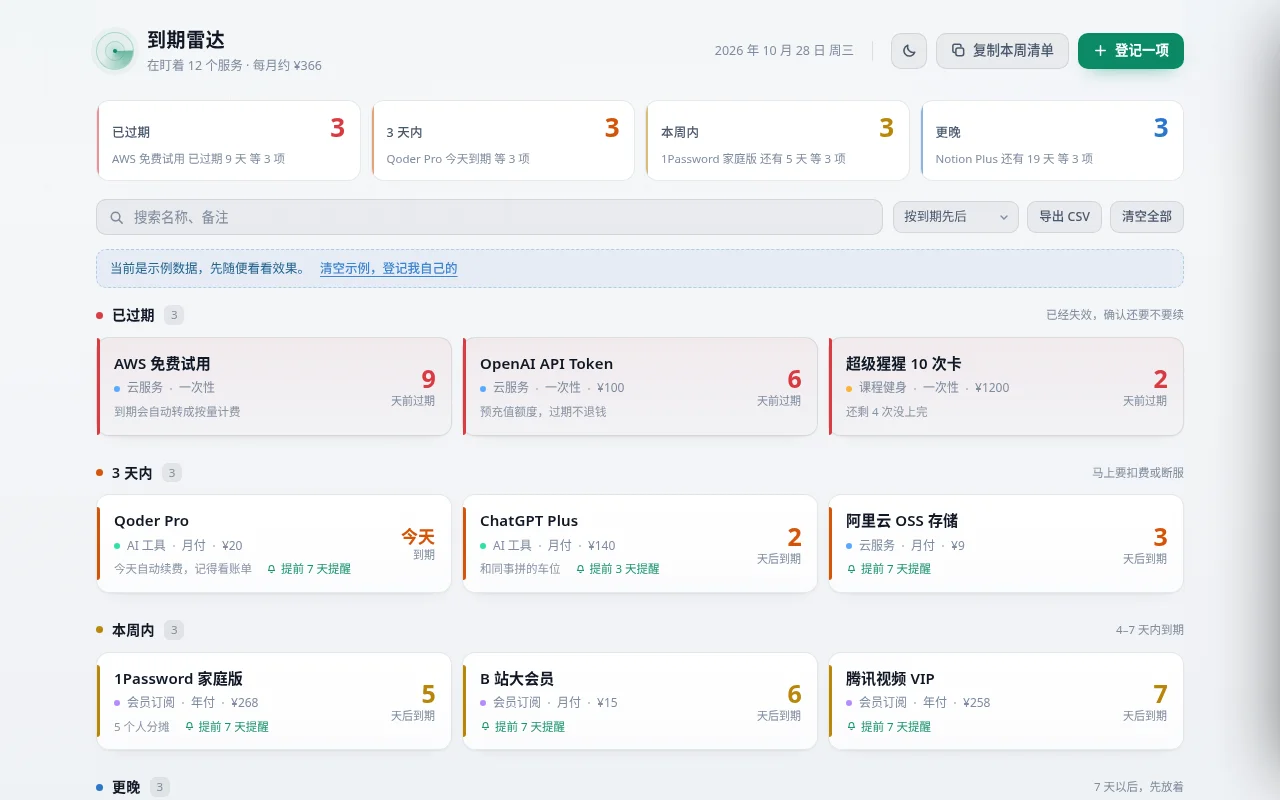
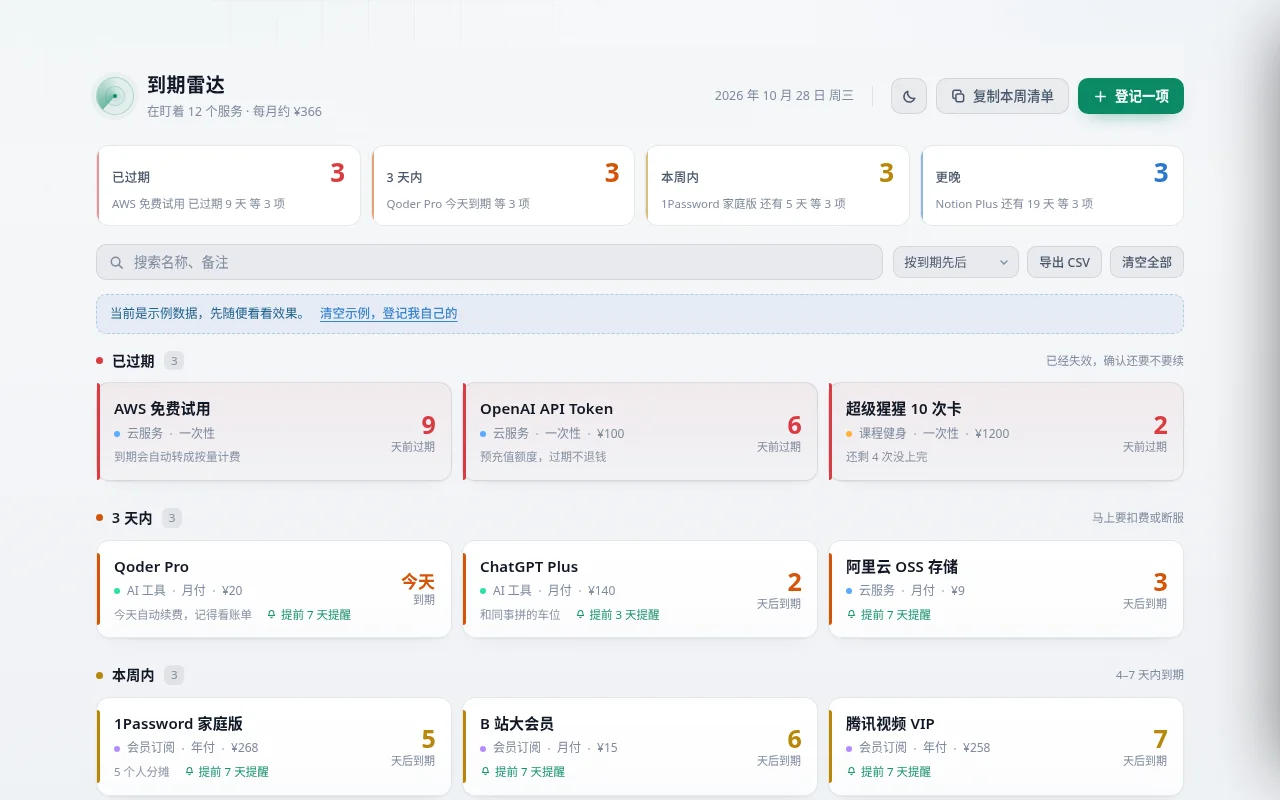
Add expiry radar template

diff --git a/wb1024-c597-abc5c6de/showcase/preview.html b/wb1024-c597-abc5c6de/showcase/preview.html
@@ -735,9 +735,10 @@ input[type="date"]::-webkit-calendar-picker-indicator { filter: var(--date-icon-
 }
 </style>
 <script>
+var previewStore={data:{},getItem(k){return this.data[k]||null},setItem(k,v){this.data[k]=v}};
   (function () {
     try {
-      var saved = localStorage.getItem('expired-radar.theme');
+      var saved = previewStore.getItem('expired-radar.theme');
       var theme = saved || (window.matchMedia('(prefers-color-scheme: light)').matches ? 'light' : 'dark');
       document.documentElement.setAttribute('data-theme', theme);
       var meta = document.querySelector('meta[name="theme-color"]');
@@ -748,7 +749,7 @@ input[type="date"]::-webkit-calendar-picker-indicator { filter: var(--date-icon-
   })();
 </script>
 </head>
-<body>
+<body><div style="text-align:center;padding:8px;background:#233a35;color:white">示例体验，数据仅保留在本页 <button id="previewReset" type="button">恢复示例</button></div>
 <div class="bg-glow" aria-hidden="true"></div>
 
 <div class="app">
@@ -885,14 +886,15 @@ input[type="date"]::-webkit-calendar-picker-indicator { filter: var(--date-icon-
       <button class="btn btn-danger-ghost" id="btnDelete" type="button" hidden>删除</button>
       <div class="spacer"></div>
       <button class="btn btn-ghost" id="btnCancel" type="button">取消</button>
-      <button class="btn btn-primary" id="btnSave" type="submit">保存</button>
+      <button class="btn btn-primary" id="btnSave" type="button">保存</button>
     </div>
   </form>
 </aside>
 
 <div class="toast" id="toast" role="status" aria-live="polite"></div>
 
-<script>/* ===========================================================
+<script>function previewConfirm(){return true;}
+/* ===========================================================
    到期雷达 — 全部逻辑跑在浏览器本地，无依赖
    =========================================================== */
 (function () {
@@ -996,7 +998,7 @@ input[type="date"]::-webkit-calendar-picker-indicator { filter: var(--date-icon-
 
   function load() {
     try {
-      var raw = localStorage.getItem(KEY);
+      var raw = previewStore.getItem(KEY);
       if (!raw) return false;
       var data = JSON.parse(raw);
       if (!data || !Array.isArray(data.items)) return false;
@@ -1006,7 +1008,7 @@ input[type="date"]::-webkit-calendar-picker-indicator { filter: var(--date-icon-
   }
 
   function save() {
-    try { localStorage.setItem(KEY, JSON.stringify({ v: 1, items: state.items })); }
+    try { previewStore.setItem(KEY, JSON.stringify({ v: 1, items: state.items })); }
     catch (e) { toast('保存失败，浏览器存储可能被禁用了'); }
   }
 
@@ -1362,7 +1364,7 @@ input[type="date"]::-webkit-calendar-picker-indicator { filter: var(--date-icon-
 
   /* ---------------- 保存 / 删除 ---------------- */
 
-  $('#form').addEventListener('submit', function (e) {
+  $('#btnSave').addEventListener('click', function (e) {
     e.preventDefault();
     var name = $('#fName').value.trim();
     var date = $('#fDate').value;
@@ -1403,7 +1405,7 @@ input[type="date"]::-webkit-calendar-picker-indicator { filter: var(--date-icon-
   function removeItem(id) {
     var it = state.items.filter(function (x) { return x.id === id; })[0];
     if (!it) return;
-    if (!window.confirm('删除「' + it.name + '」？删掉之后就盯不到了。')) return;
+    if (!previewConfirm('删除「' + it.name + '」？删掉之后就盯不到了。')) return;
     state.items = state.items.filter(function (x) { return x.id !== id; });
     save(); closeDrawer(); render();
     toast('已删除「' + it.name + '」');
@@ -1552,7 +1554,7 @@ input[type="date"]::-webkit-calendar-picker-indicator { filter: var(--date-icon-
       btn.setAttribute('aria-label', btn.title);
     }
     if (persist) {
-      try { localStorage.setItem(THEME_KEY, theme); } catch (e) {}
+      try { previewStore.setItem(THEME_KEY, theme); } catch (e) {}
     }
   }
 
@@ -1566,7 +1568,7 @@ input[type="date"]::-webkit-calendar-picker-indicator { filter: var(--date-icon-
     var mq = window.matchMedia('(prefers-color-scheme: light)');
     var onSchemeChange = function (e) {
       var saved = null;
-      try { saved = localStorage.getItem(THEME_KEY); } catch (err) {}
+      try { saved = previewStore.getItem(THEME_KEY); } catch (err) {}
       if (!saved) applyTheme(e.matches ? 'light' : 'dark', false);
     };
     if (mq.addEventListener) mq.addEventListener('change', onSchemeChange);
@@ -1639,11 +1641,11 @@ input[type="date"]::-webkit-calendar-picker-indicator { filter: var(--date-icon-
     render();
   });
 
-  $('#btnExport').addEventListener('click', exportCSV);
+  $('#btnExport').addEventListener('click', function(){ toast('安装后可导出 CSV'); });
 
   $('#btnWipe').addEventListener('click', function () {
     if (!state.items.length) { toast('本来就是空的'); return; }
-    if (!window.confirm('清空全部 ' + state.items.length + ' 条记录？这个操作不能撤销。')) return;
+    if (!previewConfirm('清空全部 ' + state.items.length + ' 条记录？这个操作不能撤销。')) return;
     state.items = [];
     save();
     render();
@@ -1678,6 +1680,7 @@ input[type="date"]::-webkit-calendar-picker-indicator { filter: var(--date-icon-
   $('#fDate').addEventListener('input', updatePreview);
   $('#fDate').addEventListener('change', updatePreview);
 
+  $('#previewReset').addEventListener('click', function(){ state.items = demoItems(); save(); closeDrawer(); render(); toast('已恢复示例'); });
   /* ---------------- 启动 ---------------- */
 
   (function init() {
